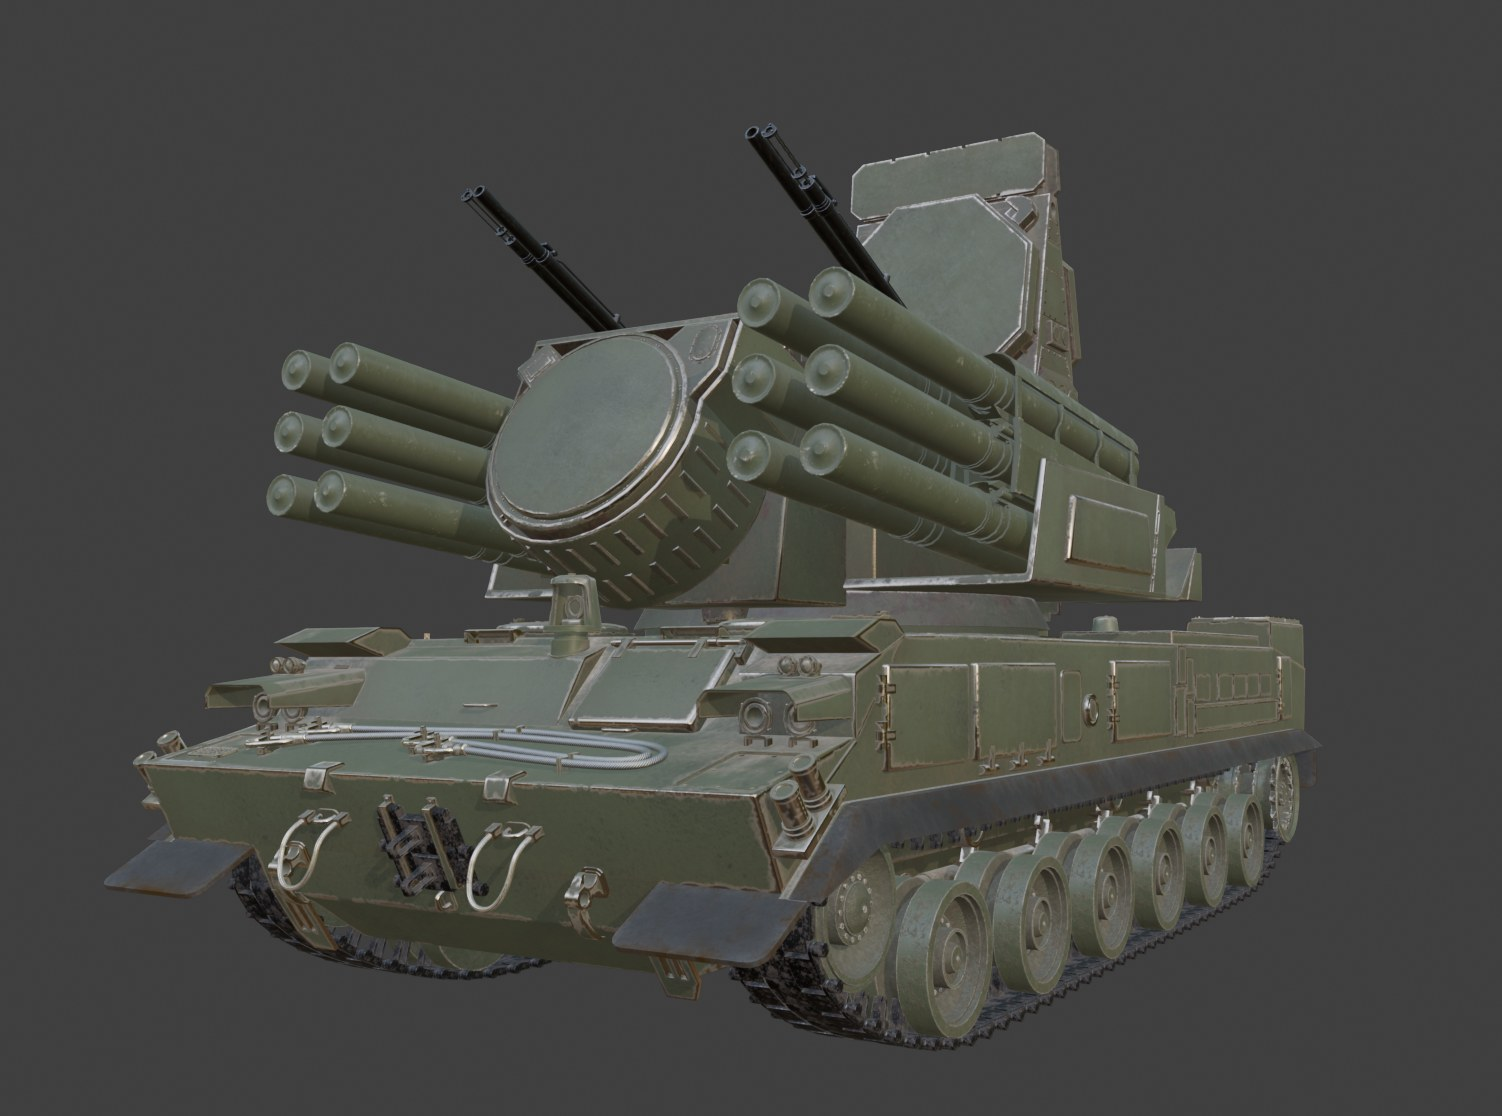
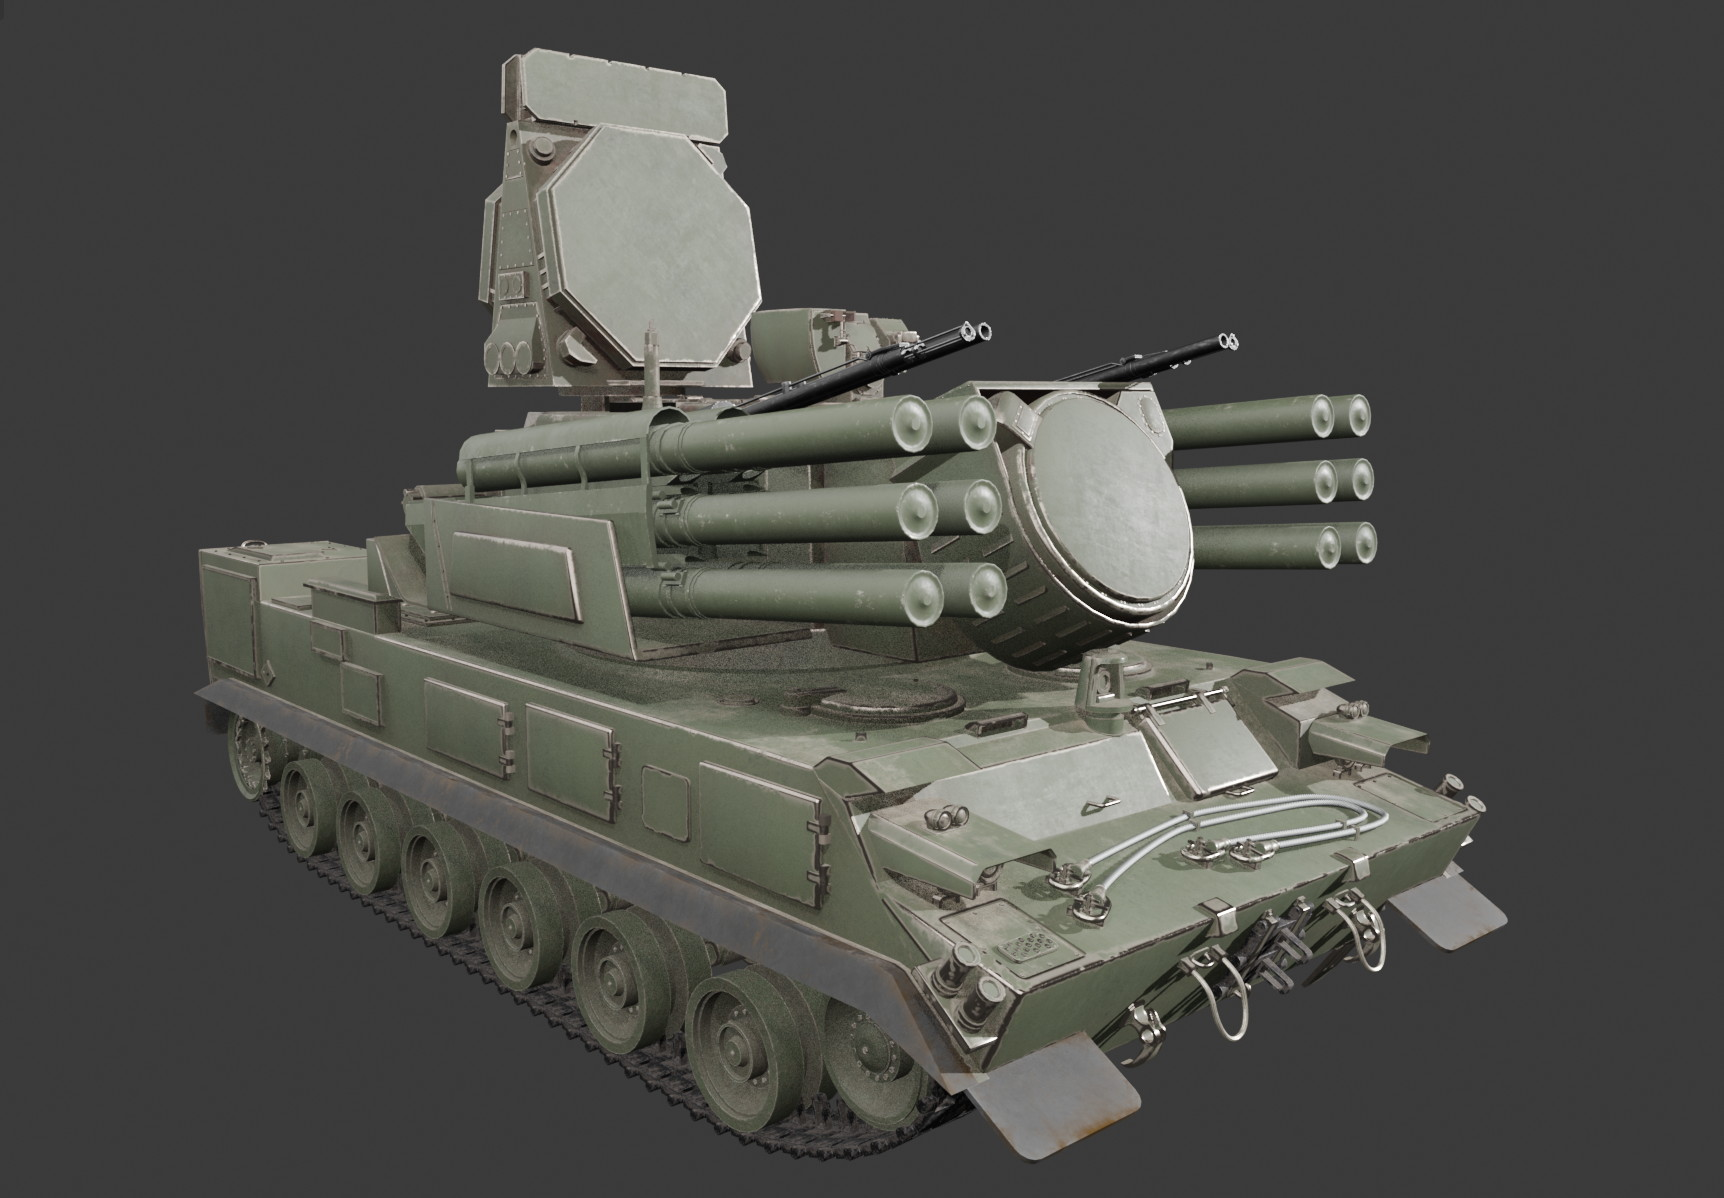
Add UE5 in-engine capture to Glock 19; drop wireframes from tracked vehicle; recast pistol narrative as low-poly-first
- Glock 19: new "UE5 实机验证" block with in-engine capture, plus a note on
  sRGB Base Color vs linear Normal/ORM and per-channel R/G/B routing
- Tracked vehicle: remove the whole wireframe/topology block (6 images);
  show four UDIM renders instead, tri count carried by the spec bar
- Steampunk pistol: reframe as low-poly blocking -> high-poly refinement,
  high-poly used only as bake source (no more decimation wording)
- assets: swap the four tracked-vehicle views, add glock_ue5.jpg (16:9)
- Normalise index.html line endings to LF

diff --git a/index.html b/index.html
@@ -334,6 +334,11 @@ button{ font:inherit; color:inherit; background:none; border:none; cursor:pointe
 .mv-grid.two{ grid-template-columns:repeat(2,1fr); }
 .mv-grid.two .mv{ aspect-ratio:3/2; }
 .mv-grid.two .mv img{ filter:grayscale(.12) brightness(.97); }
+/* 履带车：渲染图共用 #3b3b3b 底板，contain 保证正/俯视不被裁切，留白与底板同色看不出来 */
+.mv-grid.hv3{ grid-template-columns:repeat(3,1fr); }
+.mv-grid.hv3 .mv{ aspect-ratio:1/1; background:#3b3b3b; }
+.mv-grid.hv3 .mv img{ object-fit:contain; object-position:center; filter:none; }
+.mv-grid.hv3 .mv::after{ background:linear-gradient(to top, rgba(8,9,11,.62), transparent 28%); }
 .mv{
   position:relative; border-radius:var(--r-m); overflow:hidden;
   border:1px solid var(--line); background:var(--bg-2); cursor:zoom-in;
@@ -889,7 +894,8 @@ button{ font:inherit; color:inherit; background:none; border:none; cursor:pointe
         以 Glock 19 Gen5 为原型的写实道具资产。在 Blender 中完成硬表面建模与拓扑整理，
         统一 UV 并做紧凑排布 —— <b>2,610 顶点 / 2,369 面 / 4,764 三角面 / 20 个部件</b>；
         导入 Substance 3D Painter 烘焙法线与遮蔽，绘制钢制滑套的磨损划痕、聚合物握把的哑光颗粒与刻字细节，
-        最终输出 Base Color、Normal 与 ORM 三张 4096² 贴图，回接 Blender 完成灯光与渲染。
+        最终输出 Base Color、Normal 与 ORM 三张 4096² 贴图，回接 Blender 完成灯光与渲染，
+        并导入 UE5 验证实时管线下的材质接入与比例表现。
       </p>
     </div>
 
@@ -971,6 +977,23 @@ button{ font:inherit; color:inherit; background:none; border:none; cursor:pointe
       </p>
     </div>
 
+    <!-- UE5 实机验证 -->
+    <div class="chan-block" style="margin-top:clamp(30px,4vw,50px)">
+      <div class="chan-head" data-rv>
+        <h4>UE5 实机验证</h4>
+        <span>Real-time · Unreal Engine 5</span>
+      </div>
+      <figure class="wf wide" data-rv data-lb="assets/glock_ue5.jpg" data-cap="UE5 引擎内实机截图 —— 资产导入后在实时渲染管线下的材质接入、比例与法线表现">
+        <img src="assets/glock_ue5.jpg" alt="格洛克 19 在 UE5 中的实机渲染效果" loading="lazy">
+        <figcaption><i>In-Engine Capture</i><b>UE5 实机效果</b></figcaption>
+      </figure>
+      <p class="chan-note">
+        资产导入 UE5 后直接于引擎内截图：Base Color 保持 sRGB、Normal 与 ORM 走线性，
+        ORM 按 R 遮蔽 / G 粗糙 / B 金属分别接入材质节点；同时确认实时管线下的轮廓比例、
+        法线响应与离线渲染一致，可继续用于引擎内的后续场景整合。
+      </p>
+    </div>
+
   </div>
 </section>
 
@@ -985,8 +1008,9 @@ button{ font:inherit; color:inherit; background:none; border:none; cursor:pointe
         <span class="thin">高低模烘焙 &amp; 游戏道具资产工作流</span>
       </h2>
       <p class="sec-desc">
-        以蒸汽朋克风格老式手枪为原型的游戏道具资产。在 Blender 中同步制作高模与低模，
-        按材质类型划分为 11 个 Texture Set；于 Substance 3D Painter 完成高低模几何烘焙与材质绘制，
+        以蒸汽朋克风格老式手枪为原型的游戏道具资产。先在 Blender 中搭建低模，确定整枪比例、
+        结构与游戏可用布线，再在其基础上细化出高模；按材质类型划分为 11 个 Texture Set，
+        于 Substance 3D Painter 完成高低模几何烘焙与材质绘制，
         在单张 1024² 贴图集的预算内输出固有色、法线与 MRA 三通道打包贴图；
         低模经 FBX 导入 3ds Max 后重建 PBR 材质、灯光与渲染环境，
         最终完成高模与低模的同机位对比与多视角展示。
@@ -994,8 +1018,8 @@ button{ font:inherit; color:inherit; background:none; border:none; cursor:pointe
     </div>
 
     <div class="spec-bar" data-rv>
-      <dl class="spec"><dt>高模面数</dt><dd>35,259<small>Tris · Blender 细分形态</small></dd></dl>
-      <dl class="spec"><dt>低模面数</dt><dd>4,389<small>Tris · 保留 12.5%</small></dd></dl>
+      <dl class="spec"><dt>高模面数</dt><dd>35,259<small>Tris · 细节形态 / 烘焙源</small></dd></dl>
+      <dl class="spec"><dt>低模面数</dt><dd>4,389<small>Tris · 游戏可用布线</small></dd></dl>
       <dl class="spec"><dt>贴图集</dt><dd>1024²<small>单张 · 11 Texture Sets</small></dd></dl>
       <dl class="spec"><dt>通道输出</dt><dd>D / N / MRA<small>三通道打包输出</small></dd></dl>
       <dl class="spec"><dt>渲染</dt><dd>3ds Max<small>PBR 材质与灯光重建</small></dd></dl>
@@ -1038,11 +1062,12 @@ button{ font:inherit; color:inherit; background:none; border:none; cursor:pointe
     <div class="cmp-block">
       <div class="chan-head" data-rv>
         <h4>高低模烘焙验证</h4>
-        <span>35,259 → 4,389 Tris · Same Camera · 4 Views</span>
+        <span>Low 4,389 / High 35,259 Tris · Same Camera · 4 Views</span>
       </div>
       <p class="cmp-lede" data-rv>
         四个机位采用完全一致的相机与光照：左为高模素模，右为应用法线烘焙后的低模成品。
-        面数压缩至原来的 12.5%，轮廓转折、倒角高光与结构细节全部由 Normal 贴图承载还原。
+        低模先行定形与布线，高模由同一模型细化而来、仅作烘焙源 ——
+        最终进引擎的是保留轮廓转折与硬边的低模，倒角高光与雕花细节由 Normal 贴图承载。
       </p>
 
       <!-- 45° 大对比 -->
@@ -1103,10 +1128,10 @@ button{ font:inherit; color:inherit; background:none; border:none; cursor:pointe
       </div>
 
       <div class="cmp-stats" data-rv>
-        <div class="cmp-stat"><div class="n">12.5<small>%</small></div><p>面数保留率 —— 35,259 Tris 压至 4,389 Tris</p></div>
-        <div class="cmp-stat"><div class="n">87.5<small>%</small></div><p>冗余面削减，细节改由 Normal 贴图承载</p></div>
+        <div class="cmp-stat"><div class="n">2<small>套模型</small></div><p>低模定形布线 + 高模细化细节，同一套 UV 对齐</p></div>
         <div class="cmp-stat"><div class="n">4<small>机位</small></div><p>45° / 侧 / 正 / 背 四视角同机位对比验证</p></div>
-        <div class="cmp-stat"><div class="n">3<small>张贴图</small></div><p>1024² 单贴图集覆盖 11 个 Texture Set</p></div>
+        <div class="cmp-stat"><div class="n">3<small>张贴图</small></div><p>D / N / MRA 三通道打包，1024² 单张贴图集</p></div>
+        <div class="cmp-stat"><div class="n">11<small>分区</small></div><p>按材质划分 Texture Set，钢件 / 黄铜 / 木柄独立绘制</p></div>
       </div>
     </div>
 
@@ -1116,9 +1141,9 @@ button{ font:inherit; color:inherit; background:none; border:none; cursor:pointe
       <div class="sub">Production Pipeline · 4 Stages</div>
       <ol class="flow">
         <li>
-          <b><em>01</em>Blender 高低模制作</b>
-          <p>同步搭建高模与低模：高模承载倒角、雕花与螺丝等完整细节形态，
-             低模按游戏道具标准精简布线，保留轮廓转折与硬边。
+          <b><em>01</em>Blender 低模定形 · 高模细化</b>
+          <p>先搭建低模，确定整枪的比例、结构与游戏可用布线，保留轮廓转折与硬边；
+             再以同一模型为基础细化出高模，补齐倒角、雕花、螺丝与铆钉等细节形态。
              全模型按材质类型划分为 <code>11 个 Texture Set</code>，
              统一低模 UV，确保各分区在单张贴图集内排布合理且互不重叠。</p>
         </li>
@@ -1129,7 +1154,7 @@ button{ font:inherit; color:inherit; background:none; border:none; cursor:pointe
              最终导出固有色、法线与 MRA 三张贴图。</p>
         </li>
         <li>
-          <b><em>03</em>低模拓扑整理与 FBX 导出</b>
+          <b><em>03</em>低模复核与 FBX 导出</b>
           <p>烘焙后复核低模布线，修正扭曲、黑边与平滑组问题，
              确认硬边正确后导出 FBX —— 保证跨软件传递时法线与 UV 不失真。</p>
         </li>
@@ -1164,7 +1189,7 @@ button{ font:inherit; color:inherit; background:none; border:none; cursor:pointe
     </div>
 
     <div class="spec-bar" data-rv>
-      <dl class="spec"><dt>建模工具</dt><dd>Blender<small>Hard Surface Workflow</small></dd></dl>
+      <dl class="spec"><dt>建模工具</dt><dd>Blender<small>247,758 Tris · 31 部件</small></dd></dl>
       <dl class="spec"><dt>贴图工具</dt><dd>Substance 3D Painter<small>Bake + Paint</small></dd></dl>
       <dl class="spec"><dt>贴图规格</dt><dd>4K / 2K / 1K<small>UDIM 多分块</small></dd></dl>
       <dl class="spec"><dt>通道输出</dt><dd>6 通道 PBR<small>BaseColor / Metal / Rough / Normal / Height / AO</small></dd></dl>
@@ -1172,12 +1197,12 @@ button{ font:inherit; color:inherit; background:none; border:none; cursor:pointe
     </div>
 
     <!-- 主视觉 -->
-    <figure class="hero-shot" data-rv data-lb="assets/hv_hero.jpg" data-cap="三视角装配图 · Three-Quarter Assembly — S1 履带式防空车">
-      <img src="assets/hv_hero.jpg" alt="S1 履带式防空车 三视角装配渲染图" loading="lazy">
+    <figure class="hero-shot" data-rv data-lb="assets/hv_hero.jpg" data-cap="整车渲染 · Hero Render — S1 履带式防空车 3/4 视角">
+      <img src="assets/hv_hero.jpg" alt="S1 履带式防空车 3/4 视角渲染图" loading="lazy">
       <figcaption class="hero-shot-cap">
         <div>
-          <h3>三视角装配图</h3>
-          <p>Three-Quarter Assembly · Blender Render</p>
+          <h3>整车渲染 · 3/4 主视角</h3>
+          <p>Hero Render · Blender Cycles</p>
         </div>
         <span class="zoom-btn">
           <svg viewBox="0 0 24 24" fill="none" stroke="currentColor" stroke-width="2" stroke-linecap="round"><circle cx="11" cy="11" r="7"/><path d="M21 21l-4.3-4.3M11 8v6M8 11h6"/></svg>
@@ -1186,26 +1211,21 @@ button{ font:inherit; color:inherit; background:none; border:none; cursor:pointe
     </figure>
 
     <!-- 多视图 -->
-    <div class="mv-grid">
-      <figure class="mv" data-rv data-d="1" data-lb="assets/hv_side.jpg" data-cap="侧视图 · Side View — 结构比例与炮塔布局">
+    <div class="mv-grid hv3">
+      <figure class="mv" data-rv data-d="1" data-lb="assets/hv_side.jpg" data-cap="侧视图 · Side View — 车体比例与七对负重轮 / 诱导轮布局">
         <span class="mv-idx">01</span>
         <img src="assets/hv_side.jpg" alt="侧视图" loading="lazy">
         <figcaption class="mv-cap"><i>Side View</i><b>侧视图</b></figcaption>
       </figure>
-      <figure class="mv" data-rv data-d="2" data-lb="assets/hv_front.jpg" data-cap="正视图 · Front View — 12 联装发射巢对称布局">
+      <figure class="mv" data-rv data-d="2" data-lb="assets/hv_front.jpg" data-cap="正视图 · Front View — 12 联装发射巢与双联机炮左右对称">
         <span class="mv-idx">02</span>
         <img src="assets/hv_front.jpg" alt="正视图" loading="lazy">
         <figcaption class="mv-cap"><i>Front View</i><b>正视图</b></figcaption>
       </figure>
-      <figure class="mv" data-rv data-d="3" data-lb="assets/hv_top.jpg" data-cap="俯视图 · Top View — 车体装甲板与舱盖拓扑">
+      <figure class="mv" data-rv data-d="3" data-lb="assets/hv_top.jpg" data-cap="俯视图 · Top View — 车体装甲板、舱盖与雷达基座拓扑">
         <span class="mv-idx">03</span>
         <img src="assets/hv_top.jpg" alt="俯视图" loading="lazy">
         <figcaption class="mv-cap"><i>Top View</i><b>俯视图</b></figcaption>
-      </figure>
-      <figure class="mv" data-rv data-d="4" data-lb="assets/hv_back.jpg" data-cap="后视图 · Rear View — 尾舱细节与挂载结构">
-        <span class="mv-idx">04</span>
-        <img src="assets/hv_back.jpg" alt="后视图" loading="lazy">
-        <figcaption class="mv-cap"><i>Rear View</i><b>后视图</b></figcaption>
       </figure>
     </div>
 
@@ -1266,49 +1286,10 @@ button{ font:inherit; color:inherit; background:none; border:none; cursor:pointe
       </div>
     </div>
 
-    <!-- 线框 / 拓扑 / UV 验证 -->
+    <!-- UV 布局 / UDIM 验证 -->
     <div class="verify">
 
-      <div class="chan-head" data-rv>
-        <h4>线框与拓扑验证</h4>
-        <span>Wireframe · 247,758 Tris · 31 Parts</span>
-      </div>
-      <div class="wg">
-        <figure class="wf" data-rv data-d="1" data-lb="assets/wire_hero.png" data-cap="整车线框 · 3/4 视角 —— 全局布线走向与面数密度分布">
-          <span class="wf-tag">Full Vehicle</span>
-          <img src="assets/wire_hero.png" alt="整车线框 3/4 视角" loading="lazy">
-          <figcaption><i>3/4 View · Wireframe</i><b>整车线框</b></figcaption>
-        </figure>
-        <figure class="wf" data-rv data-d="2" data-lb="assets/wire_side.png" data-cap="整车线框 · 侧视 —— 结构比例与轮廓布线">
-          <span class="wf-tag">Full Vehicle</span>
-          <img src="assets/wire_side.png" alt="整车线框 侧视" loading="lazy">
-          <figcaption><i>Side View · Wireframe</i><b>侧视线框</b></figcaption>
-        </figure>
-      </div>
-      <div class="wg">
-        <figure class="wf" data-rv data-d="1" data-lb="assets/wire_run_gear.png" data-cap="行走机构特写 —— 负重轮辐条放射状布线与履带板铰接结构">
-          <span class="wf-tag">Detail</span>
-          <img src="assets/wire_run_gear.png" alt="行走机构线框特写" loading="lazy">
-          <figcaption><i>Running Gear</i><b>行走机构</b></figcaption>
-        </figure>
-        <figure class="wf" data-rv data-d="2" data-lb="assets/wire_front.png" data-cap="车首特写 —— 首上装甲倾斜面与拖钩座布线">
-          <span class="wf-tag">Detail</span>
-          <img src="assets/wire_front.png" alt="车首线框特写" loading="lazy">
-          <figcaption><i>Front Hull</i><b>车首细节</b></figcaption>
-        </figure>
-        <figure class="wf" data-rv data-d="3" data-lb="assets/wire_drive_wheel.png" data-cap="传动轮总成 —— 轮盘同心圆拓扑与齿圈分段">
-          <span class="wf-tag">Detail</span>
-          <img src="assets/wire_drive_wheel.png" alt="传动轮线框" loading="lazy">
-          <figcaption><i>Drive Sprocket</i><b>传动轮总成</b></figcaption>
-        </figure>
-        <figure class="wf" data-rv data-d="4" data-lb="assets/wire_weapon.png" data-cap="武器系统 —— 12 联装发射巢筒身与雷达座布线">
-          <span class="wf-tag">Detail</span>
-          <img src="assets/wire_weapon.png" alt="武器系统线框" loading="lazy">
-          <figcaption><i>Weapon System</i><b>武器系统</b></figcaption>
-        </figure>
-      </div>
-
-      <div class="chan-head" data-rv style="margin-top:clamp(26px,3.4vw,44px)">
+      <div class="chan-head" data-rv style="margin-top:0">
         <h4>UV 布局 · UDIM 1001 – 1010</h4>
         <span>171,087 UV Edges · 10 Tiles · 31 Parts</span>
       </div>

diff --git a/README.md b/README.md
@@ -13,17 +13,17 @@
 - **线框与 UV**：UV 分块排布 + 线框拓扑工作视图，单套 UV 覆盖全部部件
 - **贴图集**：3 张 4096²（Base Color / Normal / ORM），ORM 按 R 遮蔽 · G 粗糙 · B 金属打包
 - 4 张成品渲染：双枪俯视主视觉 + 双侧视细节图
+- **UE5 实机验证**：资产导入引擎后在实时管线下的材质接入、比例与法线表现截图
 
 ### Project 02 — 蒸汽朋克手枪道具（游戏道具资产 · 高低模烘焙）
 
 - **高低模同机位对比**：45° 大图对比 + 侧 / 正 / 背三机位，高模素模与低模烘焙成品并排验证
-- 面数由高模 **35,259 Tris** 压至低模 **4,389 Tris**（保留 12.5%），细节由 Normal 贴图承载还原
-- 完整管线：Blender 高低模 → Substance 3D Painter 烘焙绘制（11 个 Texture Set）→ 低模拓扑整理 → FBX 导入 3ds Max 重建 PBR 材质与灯光渲染
+- **低模先行**：先搭低模定形与布线（**4,389 Tris**），再由同一模型细化出高模（**35,259 Tris**）作烘焙源，细节由 Normal 贴图承载还原
+- 完整管线：Blender 低模建模 → 高模细化 → Substance 3D Painter 烘焙绘制（11 个 Texture Set）→ FBX 导入 3ds Max 重建 PBR 材质与灯光渲染
 
 ### Project 03 — S1 履带式防空车（复杂机械体 · UDIM 多分块管理）
 
-- 5 张多视图渲染（侧视 / 正视 / 俯视 / 后视 / 三视角装配）
-- **线框 / 拓扑验证**：整车 3/4 与侧视线框、行走机构 / 车首 / 传动轮 / 武器系统 4 张局部特写
+- 4 张成品渲染：3/4 主视角 + 侧视 / 正视 / 俯视三视图
 - **UV 布局**：UDIM 1001–1010 共 10 个图块总览 + 关键部件单独展开图（同心圆展开 · 接缝落在隐藏边）
 - PBR 六通道拆解：Base Color、Normal、Roughness、Metallic、Height、AO
 
@@ -50,7 +50,7 @@ python3 -m http.server 8000
 
 ```
 index.html    单文件页面（含全部样式与脚本）
-assets/       41 张优化后的图片素材（渲染图 / 线框图 / UV 图 / 贴图集，约 8 MB）
+assets/       35 张优化后的图片素材（渲染图 / UV 图 / 贴图集 / 引擎实机截图，约 4.6 MB）
 ```
 
 ---
